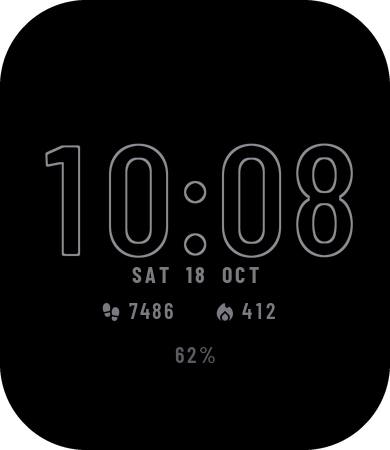
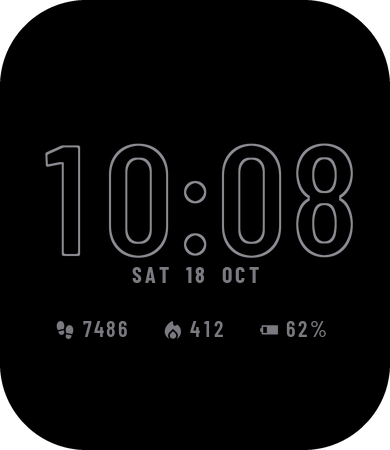
Always-on: steps, calories and battery share one aligned row

Changed region(s): [[0.3385, 0.6533, 0.8308, 0.8089], [0.2154, 0.6533, 0.3385, 0.7467], [0.1231, 0.7156, 0.1846, 0.7778]]

diff --git a/watchface/index.js b/watchface/index.js
@@ -448,7 +448,7 @@ WatchFace({
     this.stressIcon = img(C.stress.iconX, C.stress.iconY, 'icon/stress.png')
   },
 
-  // ---- always-on display: hollow time (same spot), spaced date, steps/kcal, battery % ----
+  // ---- always-on display: hollow time (same spot), spaced date, steps / kcal / battery % row ----
   // The time keeps the normal screen's exact size and position but is hollow;
   // the date is letter-spaced, so the dim/wake switch reads as the digits
   // filling in.
@@ -457,36 +457,27 @@ WatchFace({
     bigTime('aod', AOD) // same position as the normal time
     dateGroup({ week: 'aod_week', day: 'aod_day', month: 'aod_month' }, A, AOD)
 
-    // Steps and calories, dim, centred under the date
+    // Steps, calories and battery % on one row, dim, centred under the date
     const st = M.aod_stat
     const cy = A.statsCy
-    const stepsW = 20 + 6 + 5 * st.digit_w
-    const calW = 20 + 6 + 4 * st.digit_w
-    const sx = Math.round((390 - (stepsW + 28 + calW)) / 2)
+    const GAP = 22
+    const items = [
+      { icon: 'aod_steps', type: hmUI.data_type.STEP, digits: 5 },
+      { icon: 'aod_cal', type: hmUI.data_type.CAL, digits: 4 },
+      { icon: 'aod_batt', type: hmUI.data_type.BATTERY, digits: 3, unit: true }
+    ]
+    const widths = items.map((it) => 26 + it.digits * st.digit_w + (it.unit ? st.digit_w + 2 : 0))
+    let x = Math.round((390 - (widths.reduce((a, w) => a + w, 0) + GAP * (items.length - 1))) / 2)
     const sy = cy - Math.round(st.h / 2)
-    img(sx, cy - 10, 'icon/aod_steps.png', AOD)
-    create(hmUI.widget.TEXT_IMG, {
-      x: sx + 26, y: sy, w: 5 * st.digit_w, h: st.h, font_array: digits('aod_stat'), h_space: 0,
-      align_h: hmUI.align.LEFT, type: hmUI.data_type.STEP, show_level: AOD
-    })
-    img(sx + stepsW + 28, cy - 10, 'icon/aod_cal.png', AOD)
-    create(hmUI.widget.TEXT_IMG, {
-      x: sx + stepsW + 28 + 26, y: sy, w: 4 * st.digit_w, h: st.h, font_array: digits('aod_stat'), h_space: 0,
-      align_h: hmUI.align.LEFT, type: hmUI.data_type.CAL, show_level: AOD
-    })
-
-    // Battery %: small, dark grey, centred, no bar
-    create(hmUI.widget.TEXT_IMG, {
-      x: 0,
-      y: A.battCy - Math.round(M.aod_batt.h / 2),
-      w: 390,
-      h: M.aod_batt.h,
-      font_array: digits('aod_batt'),
-      h_space: 0,
-      align_h: hmUI.align.CENTER_H,
-      type: hmUI.data_type.BATTERY,
-      ...units('font/aod_batt/pct.png'),
-      show_level: AOD
+    items.forEach((it, i) => {
+      img(x, cy - 10, `icon/${it.icon}.png`, AOD)
+      create(hmUI.widget.TEXT_IMG, {
+        x: x + 26, y: sy, w: widths[i] - 26, h: st.h, font_array: digits('aod_stat'), h_space: 0,
+        align_h: hmUI.align.LEFT, type: it.type,
+        ...(it.unit ? units('font/aod_stat/pct.png') : {}),
+        show_level: AOD
+      })
+      x += widths[i] + GAP
     })
   },
 

diff --git a/watchface/metrics.js b/watchface/metrics.js
@@ -149,18 +149,12 @@ export const M = {
     "h": 26,
     "w": 25
   },
-  "aod_batt": {
+  "aod_stat": {
     "h": 23,
     "digit_w": 12,
     "cap": 16,
     "avg_w": 12.0,
     "pct": 18
-  },
-  "aod_stat": {
-    "h": 23,
-    "digit_w": 12,
-    "cap": 16,
-    "avg_w": 12.0
   },
   "heartbeat": {
     "frames": 6,
@@ -193,8 +187,7 @@ export const M = {
       "x": 222,
       "y": 261
     },
-    "statsCy": 312,
-    "battCy": 356
+    "statsCy": 330
   },
   "weatherRow": {
     "tempIcon": {

diff --git a/tools/gen_assets.py b/tools/gen_assets.py
@@ -285,7 +285,7 @@ def date_row():
 def aod_layout():
     """Always-on positions (screen px). The time is at the normal screen's
     position (TIME_Y in index.js); date on y 274 (the normal date's row),
-    steps/calories on y 312, battery % on y 356."""
+    steps, calories and battery % share one row on y 330."""
     t, wk, mo, day = metrics['aod'], metrics['aod_week'], metrics['aod_month'], metrics['aod_day']
     gap = 14
     total = wk['w'] + gap + day['w'] + gap + mo['w']
@@ -295,8 +295,7 @@ def aod_layout():
         'week': {'x': x, 'y': dy},
         'day': {'x': x + wk['w'] + gap, 'y': dy},
         'month': {'x': x + wk['w'] + gap + day['w'] + gap, 'y': dy},
-        'statsCy': 312,
-        'battCy': 356,
+        'statsCy': 330,
     }
 
 
@@ -393,10 +392,10 @@ def main():
     word_set('aod_week', WEEK, 22, AOD_GRAY, align='right', top=date_top, tracking=3)
     word_set('aod_month', MONTHS, 22, AOD_GRAY, top=date_top, tracking=3)
     day_set('aod_day', 22, AOD_GRAY, top=date_top, tracking=3)
-    font_set('aod_batt', 22, AOD_DIM, ('pct',))
-    font_set('aod_stat', 22, AOD_GRAY)
+    font_set('aod_stat', 22, AOD_GRAY, ('pct',))
     icon('aod_steps', 'footprint', 20, AOD_GRAY)
     icon('aod_cal', 'local_fire_department', 20, AOD_GRAY)
+    icon('aod_batt', 'battery_horiz_075', 20, AOD_GRAY)
 
     # Icons: 20 px beside secondary text, 24 px beside primary values
     icon('steps', 'footprint', 20, STEPS)
